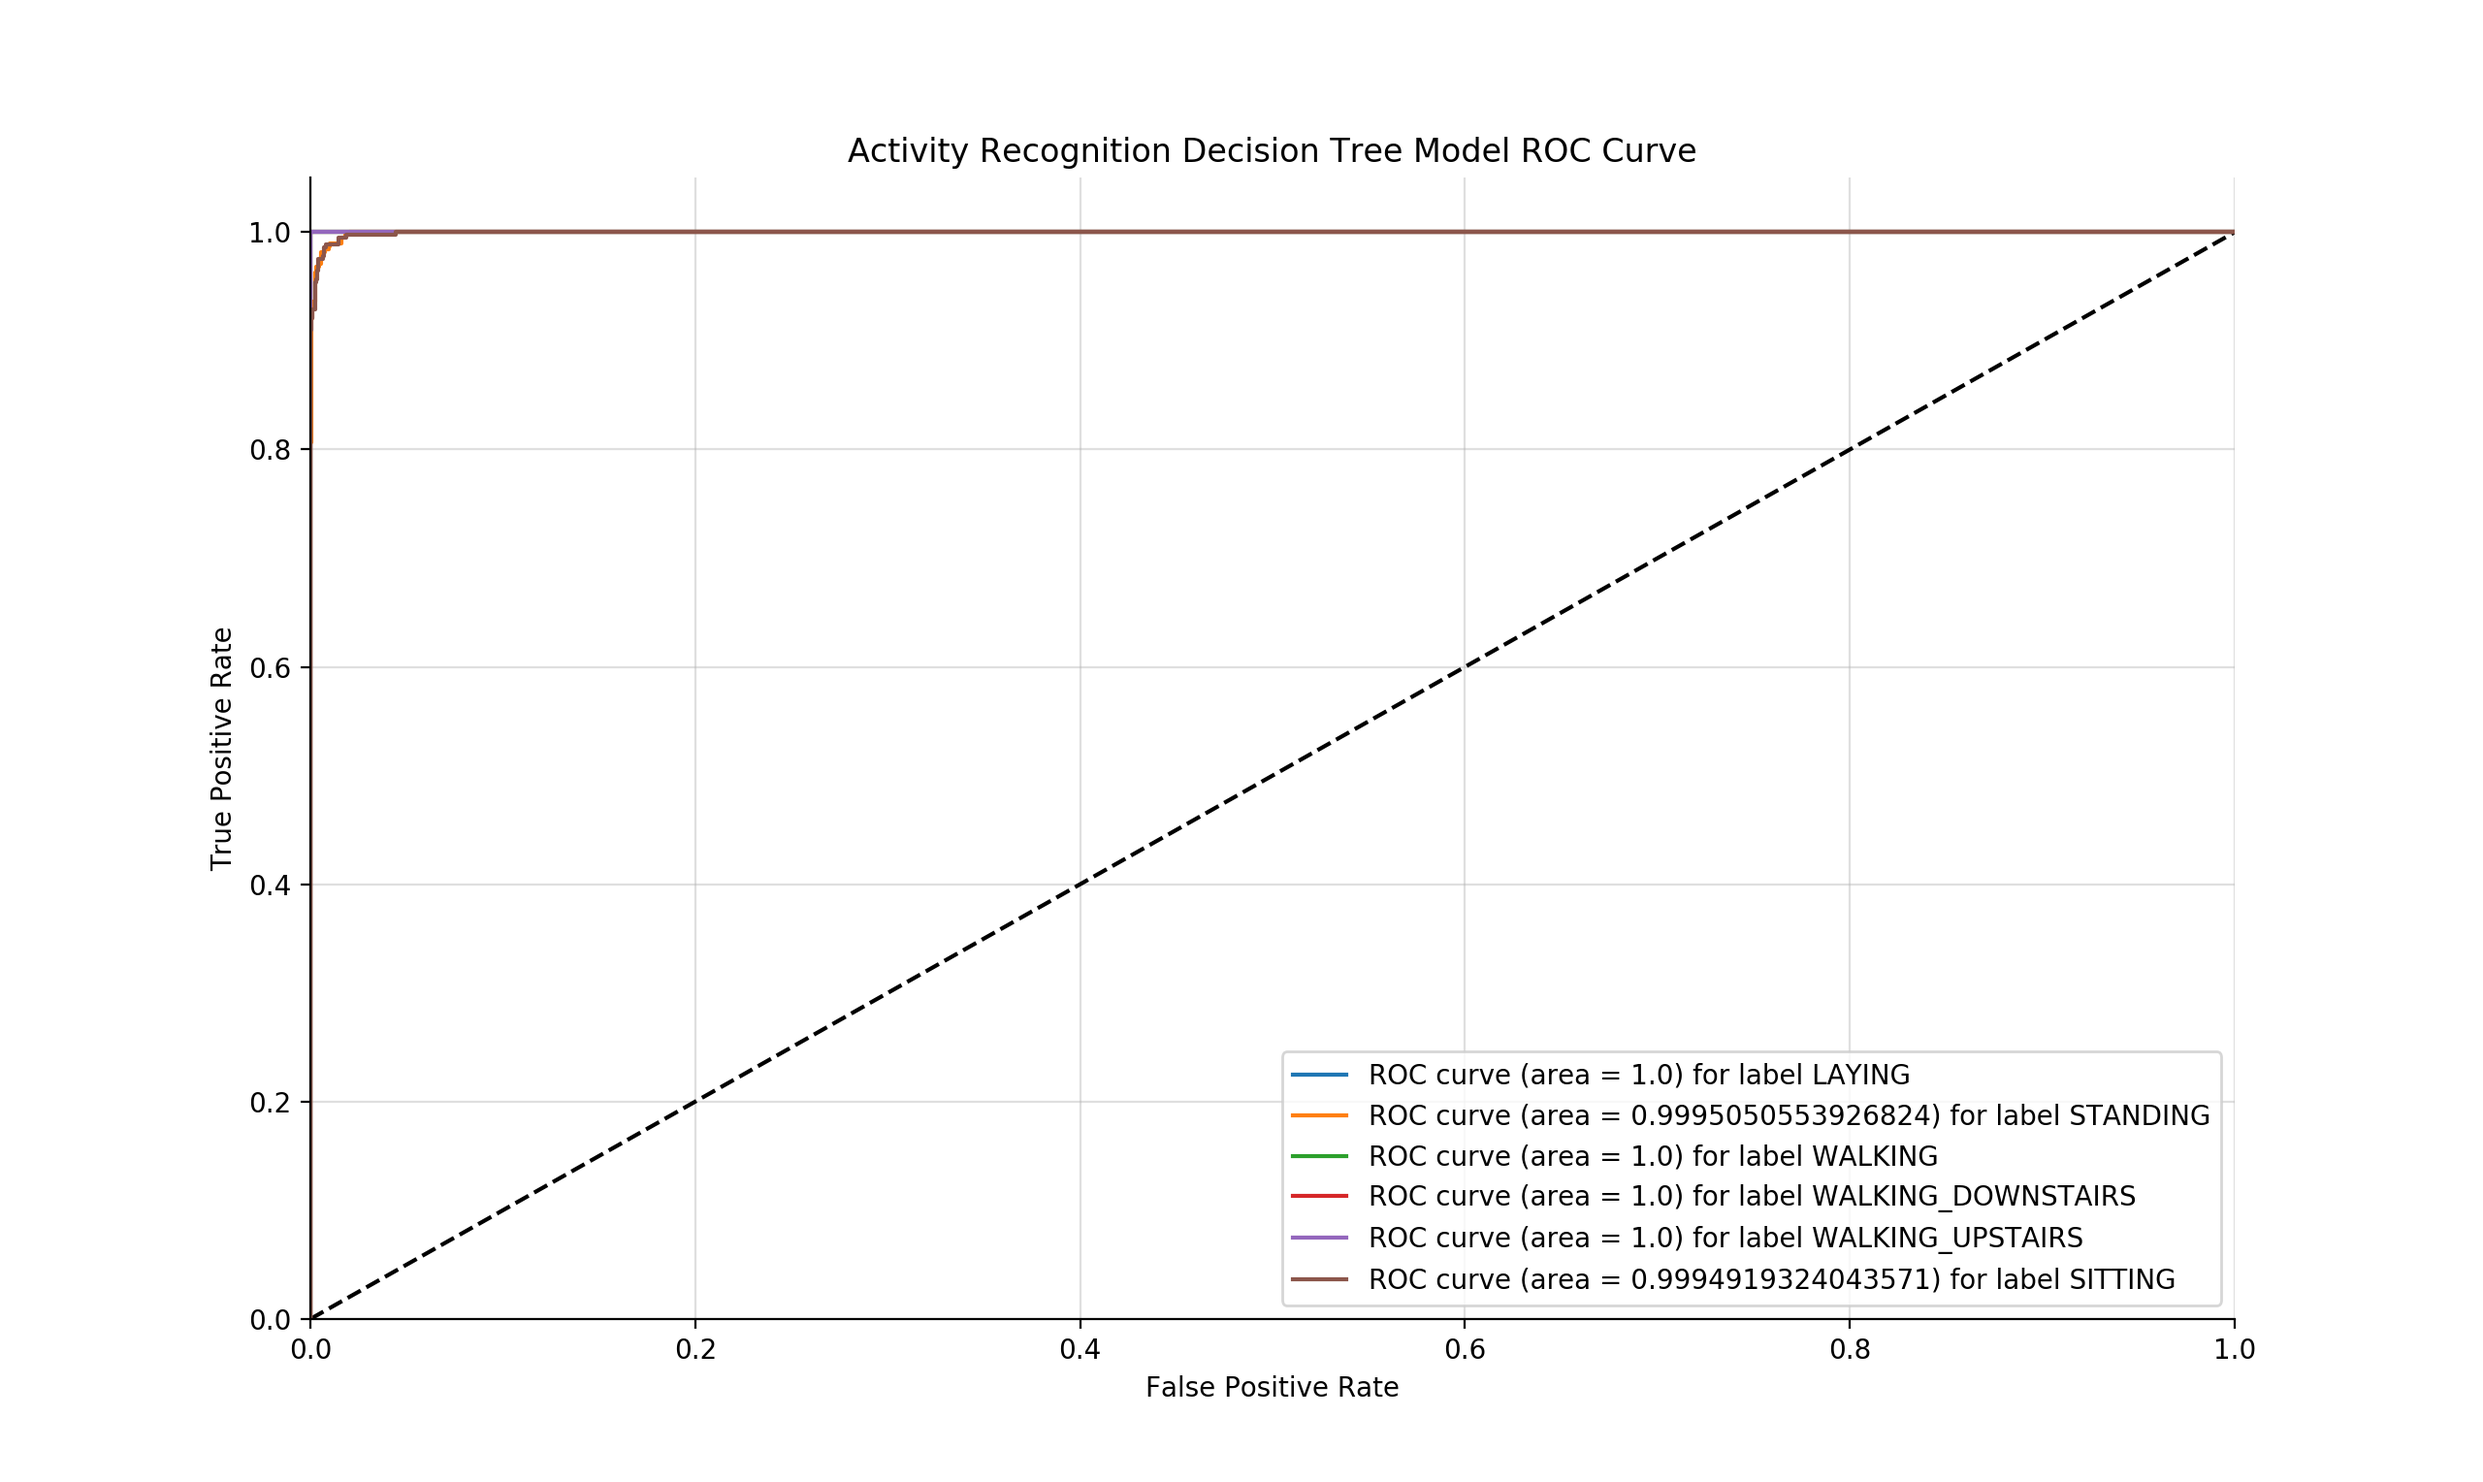
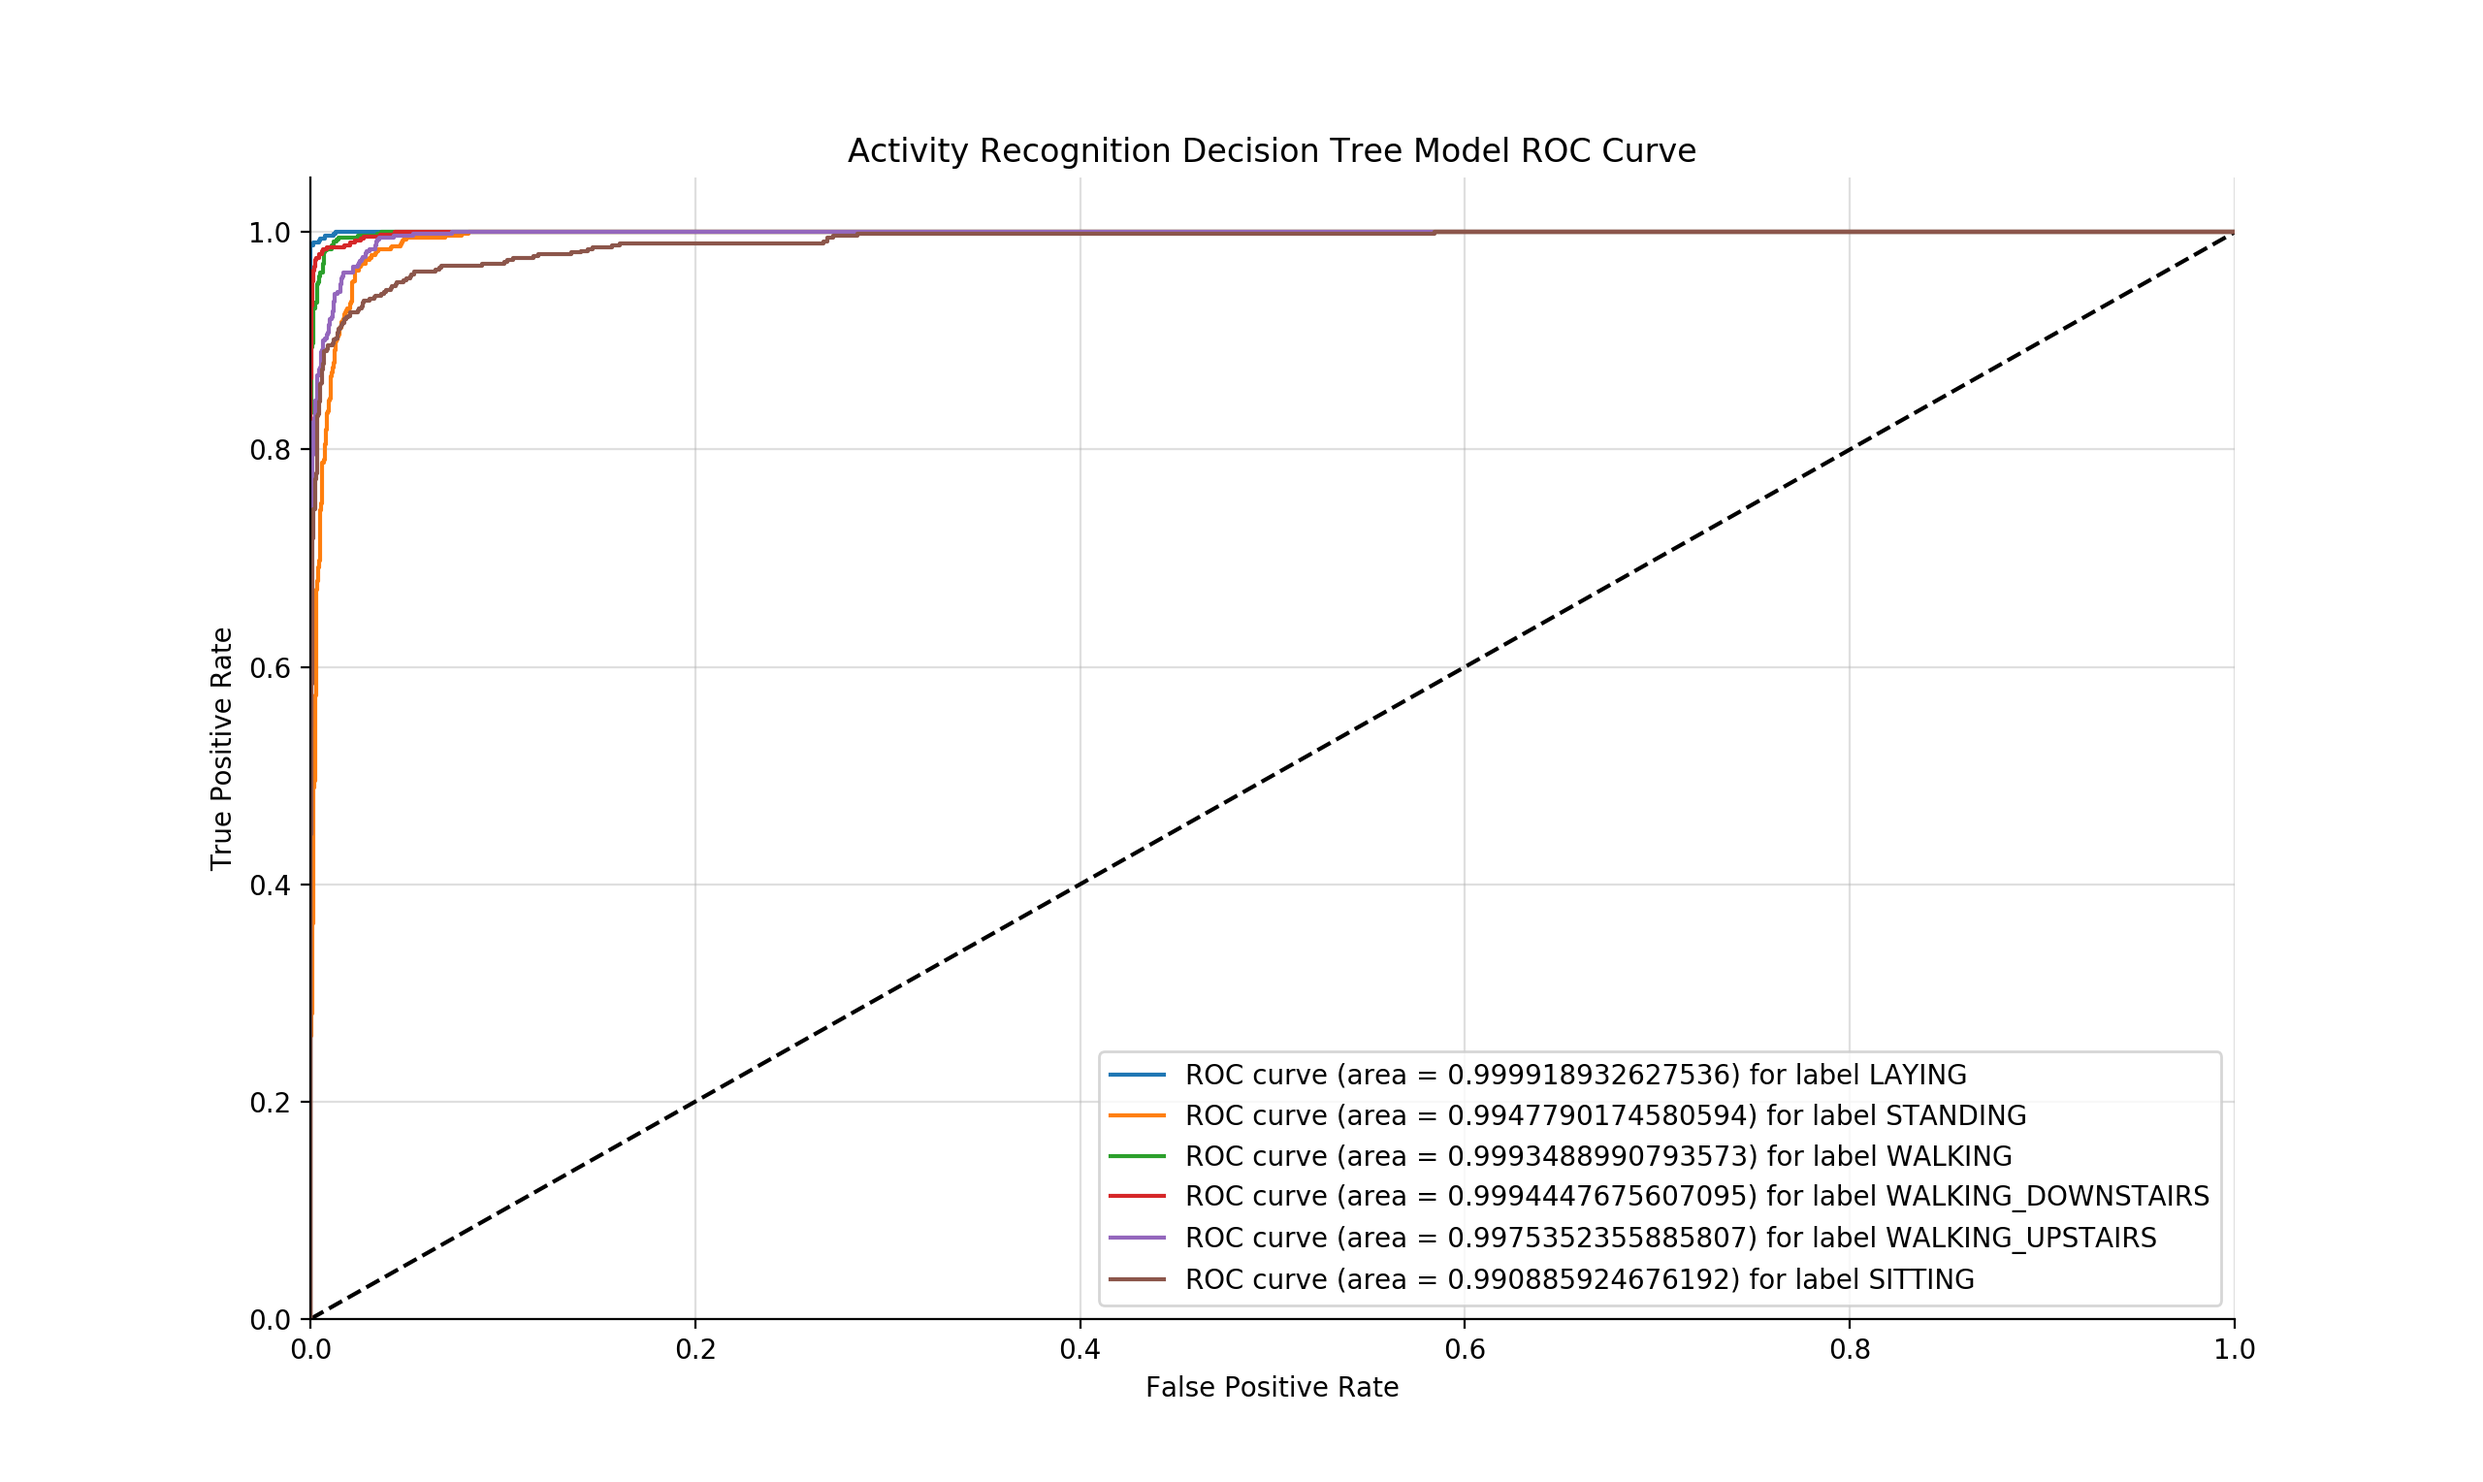
New training & testing set for neural network

Changed region(s): [[0.4375, 0.7075, 0.9062, 0.892], [0.125, 0.1538, 0.3438, 0.3384]]

diff --git a/neural_network.py b/neural_network.py
@@ -26,9 +26,24 @@ df = pd.read_csv(path)
 target_labels =  ['LAYING', 'STANDING', 'WALKING', 'WALKING_DOWNSTAIRS', 'WALKING_UPSTAIRS','SITTING']
 df['Activity'] = df["Activity"].map({"LAYING": 0, "STANDING": 1, 'WALKING': 2, 'WALKING_DOWNSTAIRS': 3, 'WALKING_UPSTAIRS': 4, 'SITTING': 5})
 
-msk = np.random.rand(len(df)) < 0.8
-train = df[msk]
-test = df[~msk]
+# assign 66% of each type to training dataset
+num_type = [0,0,0,0,0,0]
+for index, row in df.iterrows():
+    num_type[int(row[57])] += 1
+
+num_test = [int(i * 0.66) for i in num_type]
+
+train, test = [],[]
+
+for index, row in df.iterrows():
+    num_test[int(row[57])] -= 1
+    if (num_test[int(row[57])] >= 0):
+        train.append(row)
+    else:
+        test.append(row)
+ 
+train = pd.DataFrame(train)
+test = pd.DataFrame(test)
 
 x_train = train.iloc[:,0:562]
 y_train = train['Activity']
